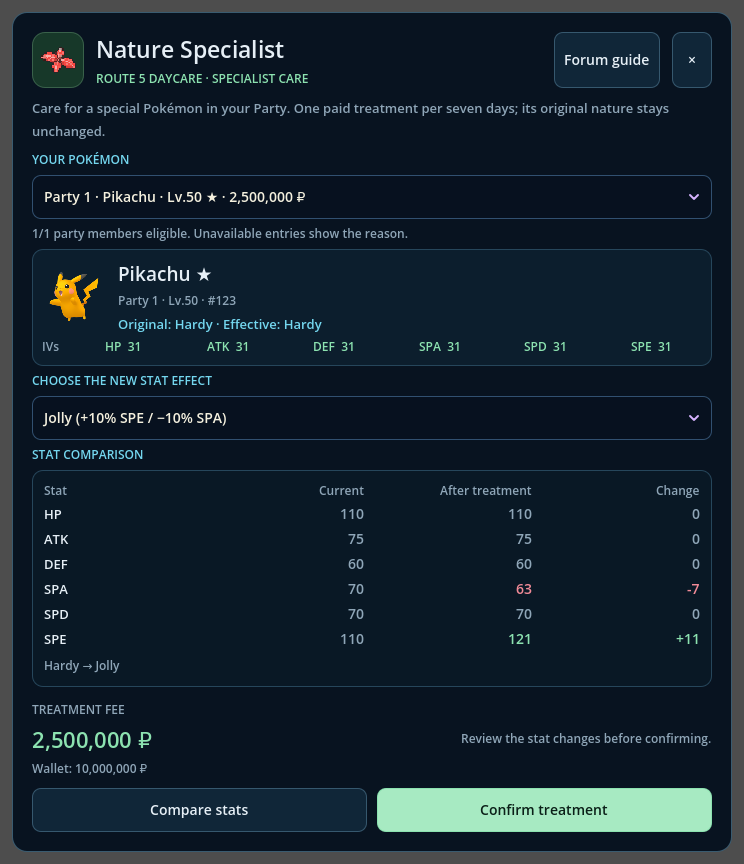
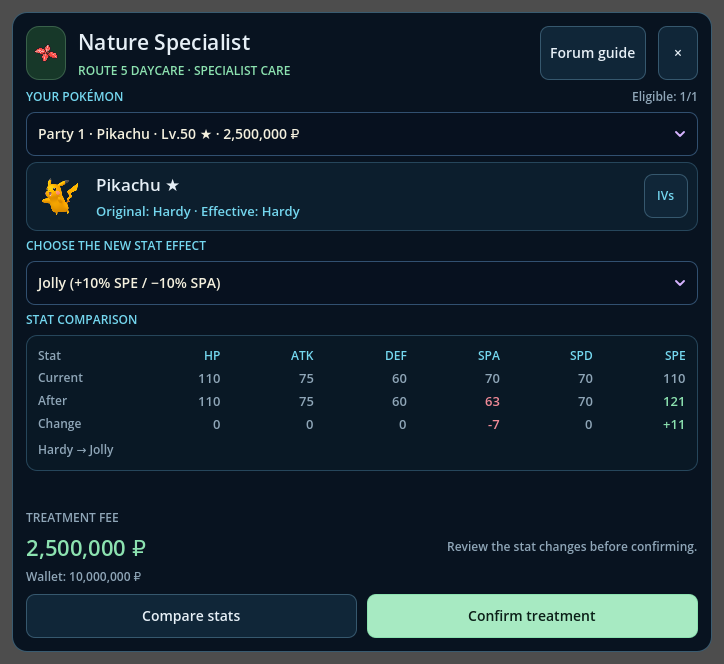
Refresh Daycare guide for compact Nature interface

diff --git a/docs/forum-guides/daycare/guide.md b/docs/forum-guides/daycare/guide.md
@@ -130,7 +130,7 @@ The **Nature Specialist** applies a chosen Nature's **stat effect**, similar to 
 3. Preview the **before and after stats** and the price.
 4. Confirm only when the effect and price are right for you.
 
-![Illustrative Nature treatment preview with stat differences and price](upload://85jKBqbggO8EDcaaptBEz4pgoae.png)
+![Illustrative Nature treatment preview with stat differences and price](upload://zs5HJnUNjAbrFpXsiPptBdQCy18.png)
 
 ### Which Pokémon can be treated?
 
